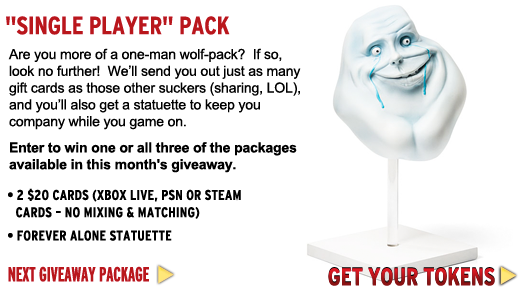
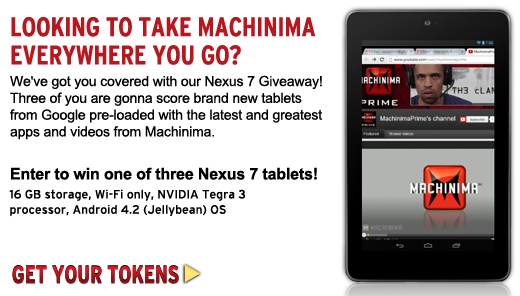
#1134 (new promo)

diff --git a/markup/browserapp/generic/section-promos.html b/markup/browserapp/generic/section-promos.html
@@ -3,12 +3,12 @@ Machinima | Recon will be automatically updated after you restart your browser.<
 
 {{#if ""}} // This is ignored by the new code, since it looks inside the script tags
 <script data-partial-id="main" type="text/x-handlebars-template">
-	<img id="sayso-promo-image-1" usemap="#sayso-promo-map-1" src="//%CONFIG_BASE_DOMAIN%%CONFIG_IMAGE_PATH%/promo-1.png" class="sayso-promo-image">
+	<img id="sayso-promo-image-1" usemap="#sayso-promo-map-1" src="//%CONFIG_BASE_DOMAIN%%CONFIG_IMAGE_PATH%/promo-1.png?july" class="sayso-promo-image">
 	<map name="sayso-promo-map-1">
-		<area shape="rect" coords="322,258,515,296" href="#" class="sayso-element sayso-section-link" data-section="rewards">
-		<area shape="rect" coords="0,257,178,291" href="#" class="sayso-element sayso-next-promo" data-next-image="sayso-promo-image-2" data-this-image="sayso-promo-image-1">
+		<area shape="rect" coords="9,261,203,288" href="#" class="sayso-element sayso-section-link" data-section="rewards">
 	</map>
 
+	<!--
 	<img id="sayso-promo-image-2" usemap="#sayso-promo-map-2" src="//%CONFIG_BASE_DOMAIN%%CONFIG_IMAGE_PATH%/promo-2.png" class="sayso-promo-image">
 	<map name="sayso-promo-map-2">
 		<area shape="rect" coords="322,258,515,296" href="#" class="sayso-element sayso-section-link" data-section="rewards">
@@ -20,5 +20,6 @@ Machinima | Recon will be automatically updated after you restart your browser.<
 		<area shape="rect" coords="322,258,515,296" href="#" class="sayso-element sayso-section-link" data-section="rewards">
 		<area shape="rect" coords="0,257,178,291" href="#"  class="sayso-element sayso-next-promo" data-next-image="sayso-promo-image-1" data-this-image="sayso-promo-image-3">
 	</map>
+	-->
 </script>
 {{/if}}
